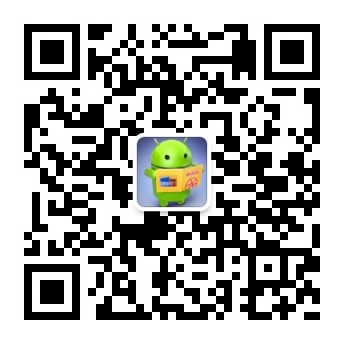
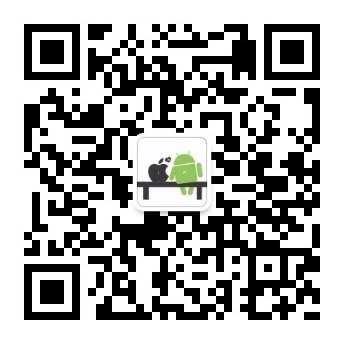
更改描述信息

Changed region(s): [[0.3779, 0.3779, 0.6105, 0.6105]]

diff --git a/README.md b/README.md
@@ -113,7 +113,7 @@ mBinding.recycler.linear()//选择布局管理器
 
 ## 欢迎关注作者
 
-微信搜索【Android干货铺】，或扫描下面二维码关注，查阅更多技术文章！
+微信搜索【App开发干货铺】，或扫描下面二维码关注，查阅更多技术文章！
 
 <img src="images/abner.jpg" width="200px" />
 
